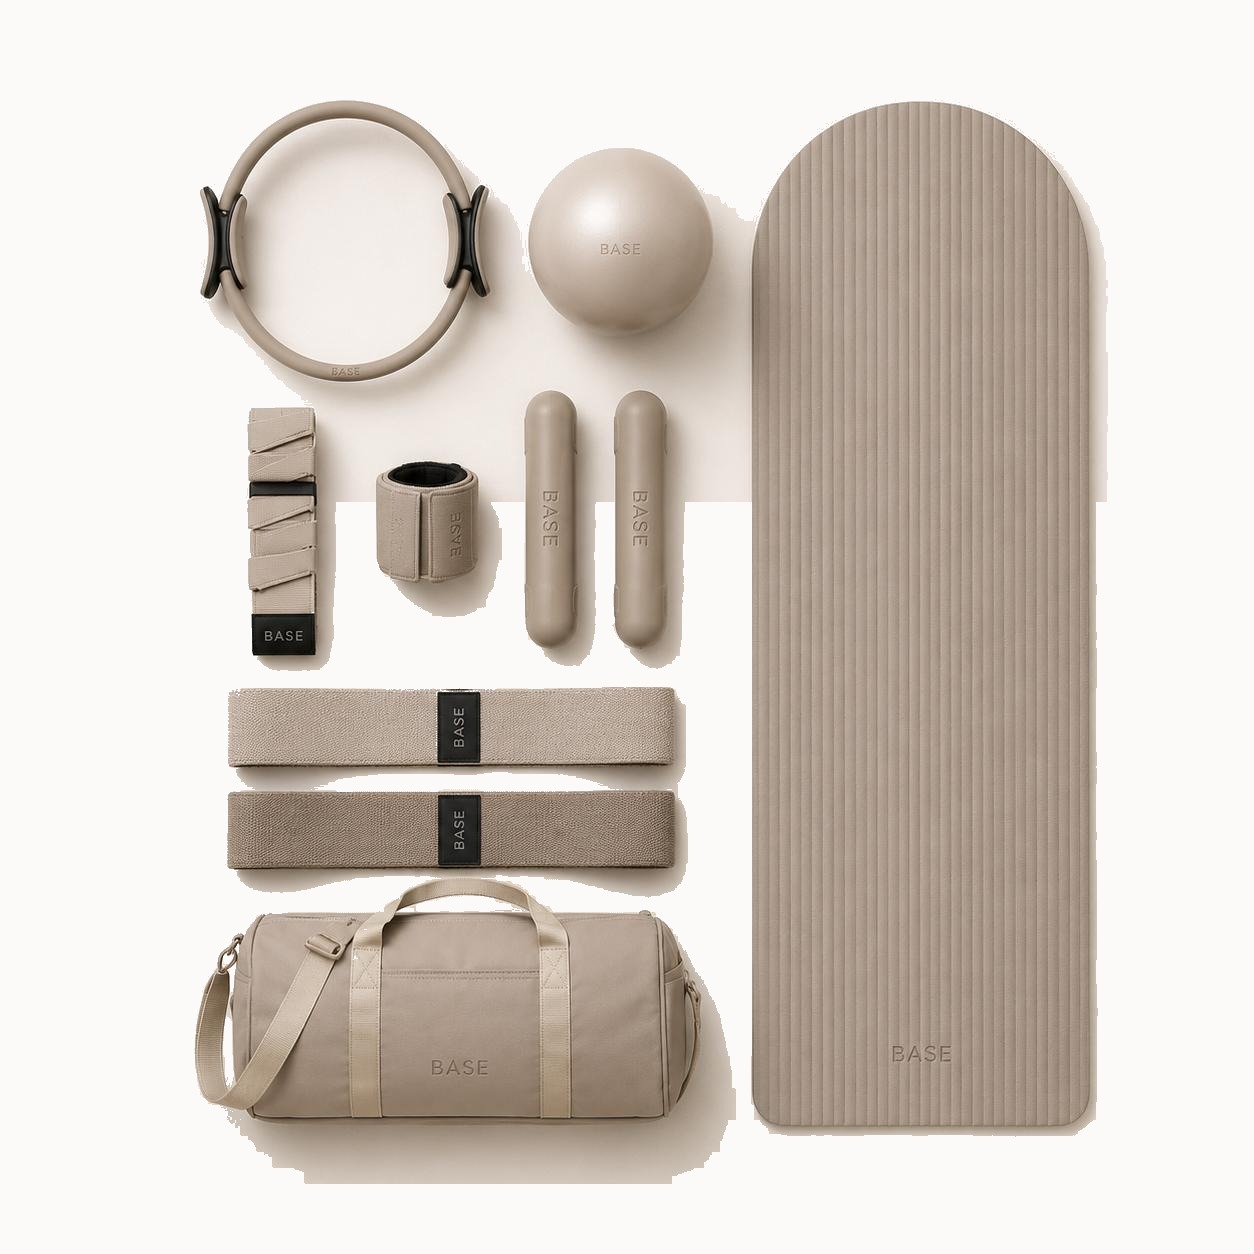
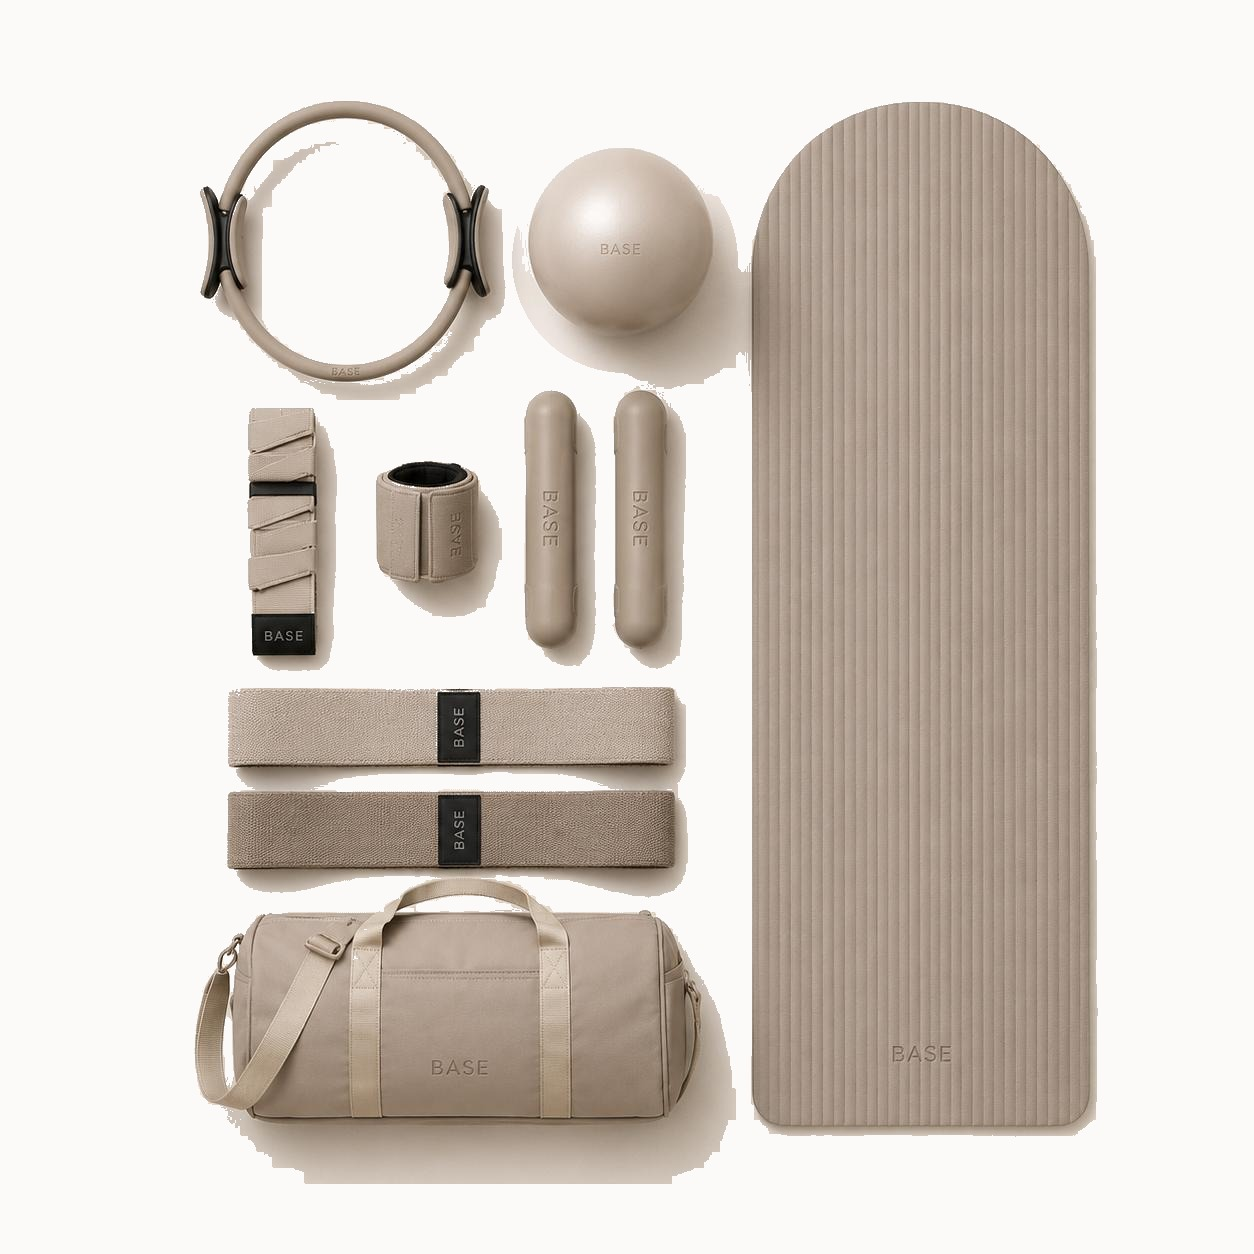
Fully uniform background on Kit card render (home + catalogue)
The earlier fill left a warm block in the upper background (only the bottom
band had been normalised). Clean the whole field now — global light/low-sat
pass everywhere except a tight circle protecting the pale ball — so the Kit
card matches the other categories. Featured-categories grid now uses the
cleaned render too; the focused homepage Kit section keeps the warm original.

Claude-Session: https://claude.ai/code/session_01HvyQyJMMjbpRPFY5Vp62nP

diff --git a/public/index.html b/public/index.html
@@ -293,7 +293,7 @@
     <div class="collection-grid">
       
       <a class="collection-card" href="/catalogo/kit-essencial/" data-reveal style="--reveal-delay:0ms">
-        <div class="media-frame"><img src="/assets/img/products/base-077.jpg" alt="Kit Essencial de Pilates — Base Movement" width="1254" height="1254" loading="lazy" decoding="async" class="photo "></div>
+        <div class="media-frame"><img src="/assets/img/products/base-077b.jpg" alt="Kit Essencial de Pilates — Base Movement" width="1254" height="1254" loading="lazy" decoding="async" class="photo "></div>
         <div class="collection-card__title">
           <h3>Kit Essencial de Pilates</h3>
           <svg viewBox="0 0 24 24" fill="none" stroke="currentColor" stroke-width="1.5" stroke-linecap="round" stroke-linejoin="round" aria-hidden="true"><path d="M7 17L17 7M9 7h8v8"/></svg>

diff --git a/public/en/index.html b/public/en/index.html
@@ -293,7 +293,7 @@
     <div class="collection-grid">
       
       <a class="collection-card" href="/en/catalogue/kit-essencial/" data-reveal style="--reveal-delay:0ms">
-        <div class="media-frame"><img src="/assets/img/products/base-077.jpg" alt="Essential Pilates Kit — Base Movement" width="1254" height="1254" loading="lazy" decoding="async" class="photo "></div>
+        <div class="media-frame"><img src="/assets/img/products/base-077b.jpg" alt="Essential Pilates Kit — Base Movement" width="1254" height="1254" loading="lazy" decoding="async" class="photo "></div>
         <div class="collection-card__title">
           <h3>Essential Pilates Kit</h3>
           <svg viewBox="0 0 24 24" fill="none" stroke="currentColor" stroke-width="1.5" stroke-linecap="round" stroke-linejoin="round" aria-hidden="true"><path d="M7 17L17 7M9 7h8v8"/></svg>
